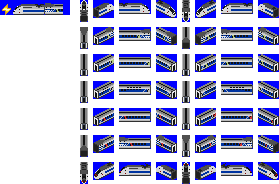
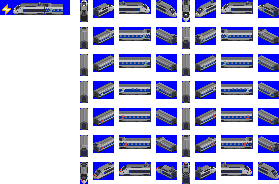
2022.9.30 TGV 리뉴얼 외

diff --git a/docs/changelog.md b/docs/changelog.md
@@ -1,3 +1,16 @@
+2022.09.30 (릴리즈 미공개)
+-----
+* TGV Pos (리뉴얼)
+* TGV Pos Lyair (리뉴얼)
+* TGV Pos Thalys (리뉴얼)
+* TGV Duplex (객차 리뉴얼)
+* TGV Duplex TGV DUPLEX Lyria / Carmillon (객차 리뉴얼)
+* TGV DUPLEX Ouigo (객차 리뉴얼)
+* TGV Pos Carmillon (도색추가)
+* TGV M (리뉴얼)
+* BB15000 (신규)
+* 객차형 승객 차량 (신규)
+
 2022.08.28
 -----
 * ICE 1 (신규)
